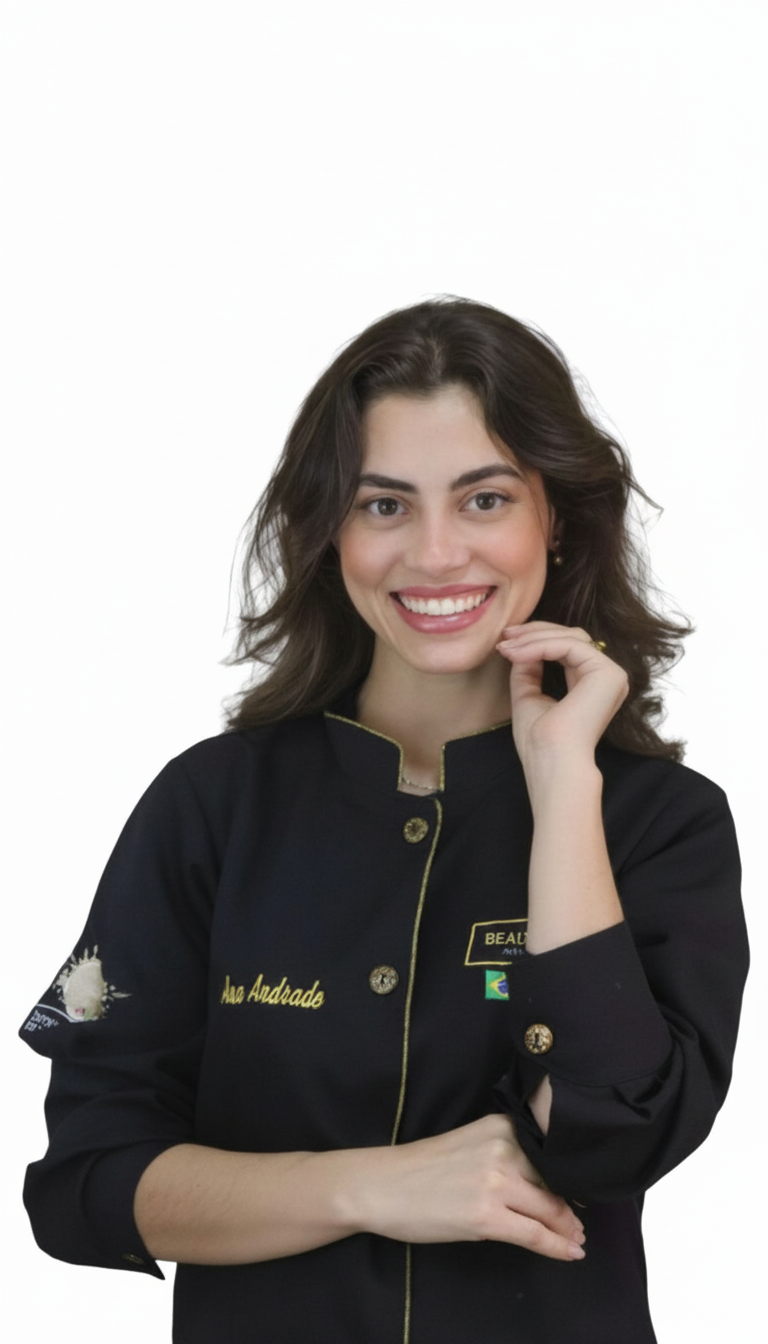
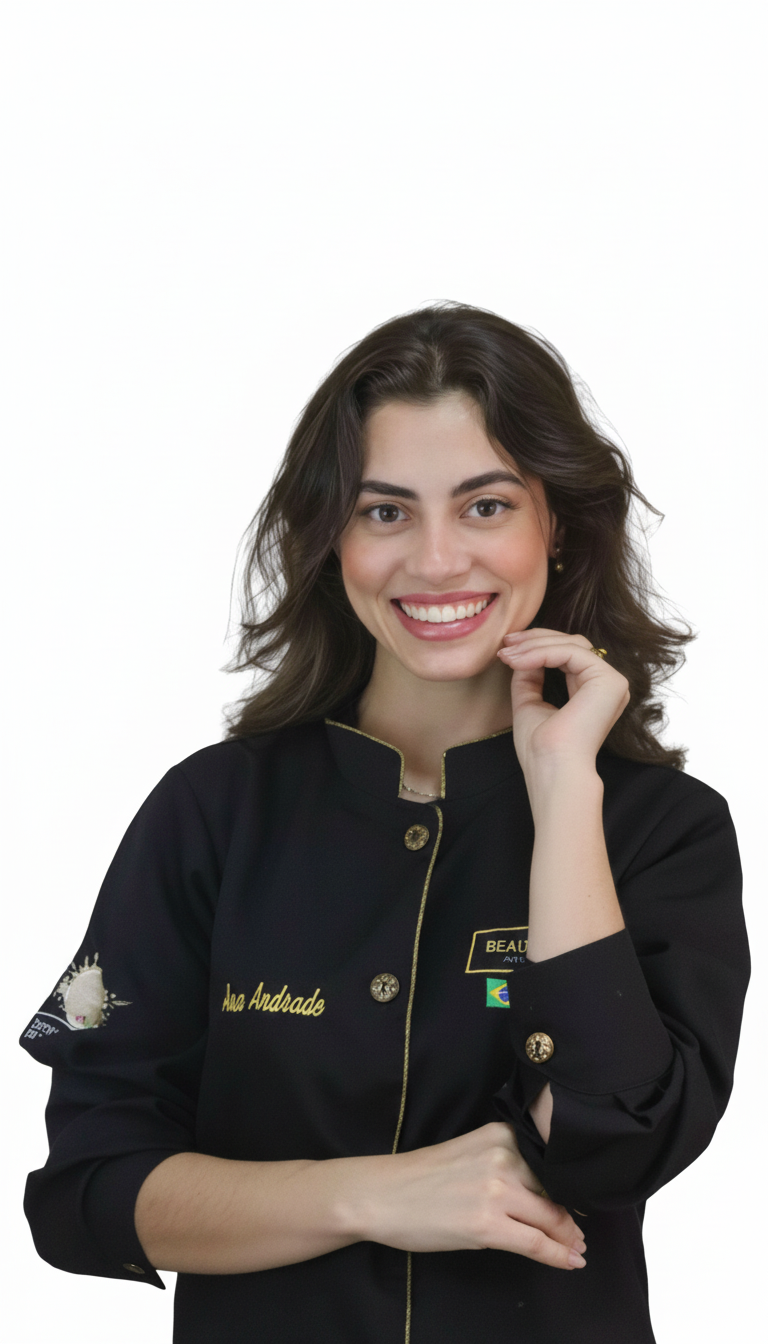
Changes

diff --git a/src/pages/Index.tsx b/src/pages/Index.tsx
@@ -82,9 +82,14 @@ const Index = () => {
             
             {/* Fotos das embaixadoras à direita - encostadas no final da hero */}
             <div className="flex mt-8 lg:mt-0 items-end self-end">
+              <div className="relative z-10 -mr-10 lg:-mr-16">
+                <div className="w-52 h-64 md:w-64 md:h-80 lg:w-80 lg:h-96 rounded-t-2xl overflow-hidden">
+                  <img src={anaAndradeNova} alt="Ana Andrade - Embaixadora Lyon Group" className="w-full h-full object-cover mix-blend-multiply" />
+                </div>
+              </div>
               <div className="relative z-20 -mr-10 lg:-mr-16">
                 <div className="w-52 h-64 md:w-64 md:h-80 lg:w-80 lg:h-96 rounded-t-2xl overflow-hidden">
-                  <img src={anaAndradeNova} alt="Ana Andrade - Embaixadora Lyon Group" className="w-full h-full object-cover" />
+                  <img src={romaniellyNova} alt="Romanielly Fernanda - Embaixadora Lyon Group" className="w-full h-full object-cover" />
                 </div>
               </div>
               <div className="relative z-10">
